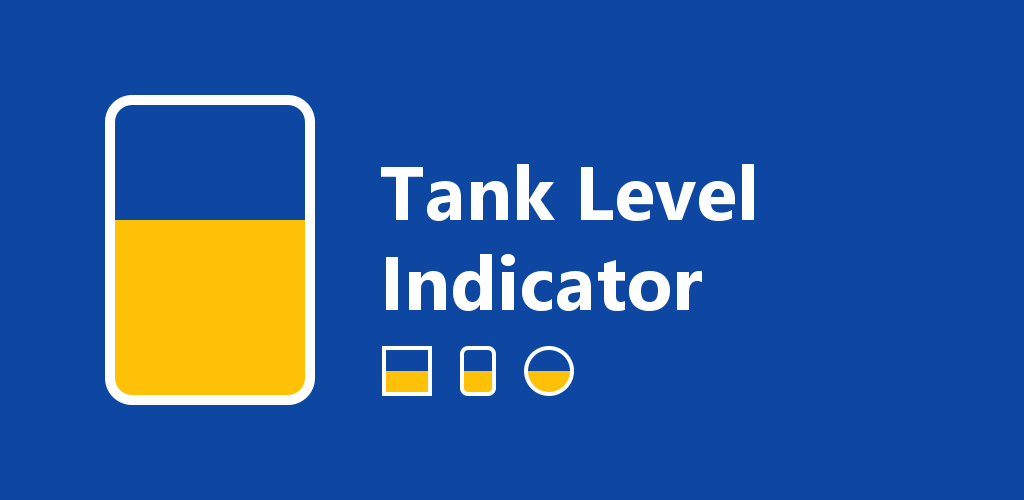
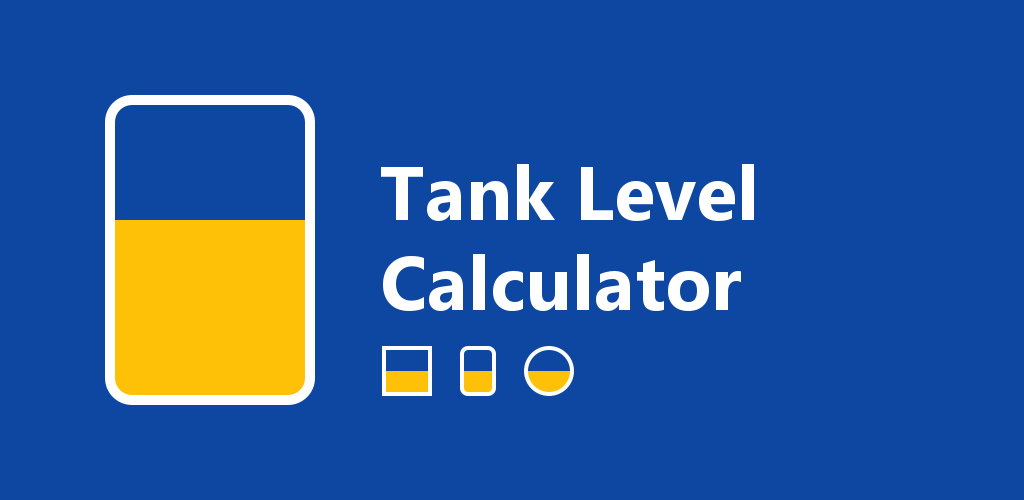
App in Tank Level Calculator umbenennen
App-Name, App-Kennung, Vorschaubild und Store-Texte passend zum neuen
Namen geaendert.

Changed region(s): [[0.375, 0.51, 0.75, 0.63]]

diff --git a/docs/PLAY_STORE.md b/docs/PLAY_STORE.md
@@ -21,11 +21,11 @@ Vor jedem weiteren Upload `versionCode` in `app/build.gradle.kts` erhöhen und `
 
 | Feld | Eingabe |
 |---|---|
-| App-Name | Tank Level Indicator |
+| App-Name | Tank Level Calculator |
 | Standardsprache | English (United States) – en-US |
 | App oder Spiel | App |
 | Kostenlos oder kostenpflichtig | Kostenlos |
-| Paketname | `de.tanklevelindicator` (nach dem ersten Upload nicht mehr änderbar) |
+| Paketname | `de.tanklevelcalculator` (nach dem ersten Upload nicht mehr änderbar) |
 
 ## Store-Eintrag
 
@@ -37,7 +37,7 @@ Kontakt-E-Mail: `nicoprelease@proton.me`
 **App name**
 
 ```text
-Tank Level Indicator
+Tank Level Calculator
 ```
 
 **Short description**
@@ -49,7 +49,7 @@ Calculate tank contents from the fill height, offline and without tracking.
 **Full description**
 
 ```text
-Tank Level Indicator estimates the contents of your tank from the measured fill height, with a focus on heating oil.
+Tank Level Calculator estimates the contents of your tank from the measured fill height, with a focus on heating oil.
 
 Choose a cellar tank, a vertical or horizontal cylinder, or a spherical tank. Enter the tank data or pick a standard DIN size. The app shows the contents, fill level, and the amount up to your adjustable fill limit.
 
@@ -71,7 +71,7 @@ Values are calculated estimates for a rough check and are not intended for billi
 **App-Name**
 
 ```text
-Tank Level Indicator
+Tank Level Calculator
 ```
 
 **Kurzbeschreibung**
@@ -83,7 +83,7 @@ Tankinhalt aus der Füllhöhe berechnen, offline und ohne Datensammlung.
 **Vollständige Beschreibung**
 
 ```text
-Tank Level Indicator berechnet aus der gemessenen Füllhöhe den ungefähren Inhalt deines Tanks, mit Schwerpunkt auf Heizöl.
+Tank Level Calculator berechnet aus der gemessenen Füllhöhe den ungefähren Inhalt deines Tanks, mit Schwerpunkt auf Heizöl.
 
 Wähle Kellertank, stehenden oder liegenden Zylinder oder Kugeltank. Gib die Tankdaten ein oder wähle eine genormte DIN-Größe. Die App zeigt Inhalt, Füllstand und die Menge bis zur einstellbaren Füllgrenze.
 
@@ -124,10 +124,10 @@ Die Einstufung fragt ausserdem nach einer E-Mail-Adresse: `nicoprelease@proton.m
 
 ```text
 <en-US>
-First release of Tank Level Indicator.
+First release of Tank Level Calculator.
 </en-US>
 <de-DE>
-Erste Version von Tank Level Indicator.
+Erste Version von Tank Level Calculator.
 </de-DE>
 ```
 

diff --git a/docs/PRIVACY.md b/docs/PRIVACY.md
@@ -6,7 +6,7 @@ Kontakt / Contact: nicoprelease@proton.me
 
 ## Deutsch
 
-Tank Level Indicator erhebt keine personenbezogenen Daten. Die App hat keine Internet-Berechtigung,
+Tank Level Calculator erhebt keine personenbezogenen Daten. Die App hat keine Internet-Berechtigung,
 benötigt kein Konto und enthält weder Werbung noch Analyse-Dienste.
 
 Gespeicherte Tanks und Einstellungen liegen nur auf deinem Gerät und werden nicht weitergegeben. Sie
@@ -14,7 +14,7 @@ werden auch nicht in ein Backup übertragen. Beim Deinstallieren der App werden 
 
 ## English
 
-Tank Level Indicator does not collect personal data. The app has no internet permission, requires no
+Tank Level Calculator does not collect personal data. The app has no internet permission, requires no
 account, and contains no advertising or analytics services.
 
 Saved tanks and settings stay on your device and are not shared. They are not included in backups.

diff --git a/README.md b/README.md
@@ -1,4 +1,4 @@
-# Tank Level Indicator
+# Tank Level Calculator
 
 Android-App, die aus der gemessenen Füllhöhe den Inhalt eines Tanks berechnet, mit Schwerpunkt auf Heizöl.
 
